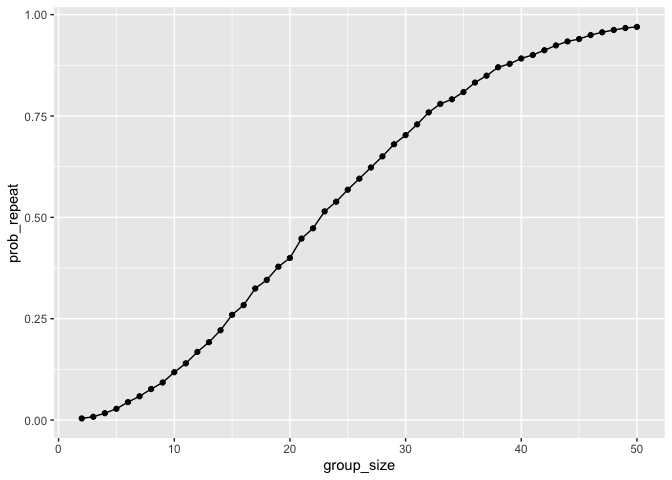
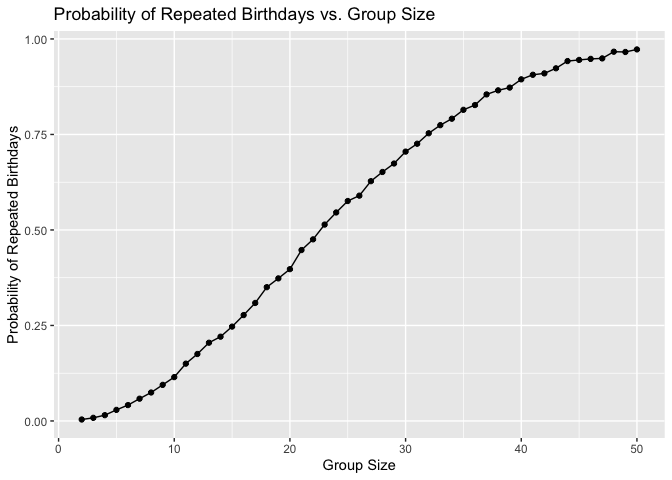
Addint interpretations and labels to my plots

diff --git a/p8105_hw5_ren2121.md b/p8105_hw5_ren2121.md
@@ -59,16 +59,19 @@ Plotting the probability as a function of group size:
 bday_sim_results |> 
   ggplot(aes(x = group_size, y = prob_repeat)) +
   geom_point() +
-  geom_line()
+  geom_line() +
+  labs(
+    x = "Group Size",
+    y = "Probability of Repeated Birthdays",
+    title = "Probability of Repeated Birthdays vs. Group Size"
+  )
 ```
 
 ![](p8105_hw5_ren2121_files/figure-gfm/unnamed-chunk-3-1.png)<!-- -->
-
-``` r
-#LABEL PLOTS!!!!!
-```
-
-interpret here!!!!!!!!!!!
+The plot follows a roughly S-shaped curve, demonstrating that as group
+size increases, the probability of two individuals having the same
+birthday increases at first steeply, and then asymptotically approaches
+a probability of 1.
 
 ## Problem 2
 
@@ -114,6 +117,7 @@ power_results_df =
     results = map(mu_true, sim_ttest)
   ) |> 
   unnest(results)
+##SHOULD I DO 0:6 OR 1:6?? (ARGUMENT FOR 0:6 - BELOW, I CAN PLOT 0-6 MORE EASILY.)
 ```
 
 Plotting the proportion of times the null was rejected:
@@ -134,8 +138,9 @@ power_results_df |>
   )
 ```
 
-![](p8105_hw5_ren2121_files/figure-gfm/unnamed-chunk-5-1.png)<!-- -->
-COMMENT ON PLOT!!!!!
+![](p8105_hw5_ren2121_files/figure-gfm/unnamed-chunk-5-1.png)<!-- --> As
+the true mean increases in value, the proportion of times the null was
+rejected increases steeply, and then asymptotically approaches 1.
 
 Plotting the average estimate of mu versus the true mu:
 
@@ -156,7 +161,11 @@ power_results_df |>
 ```
 
 ![](p8105_hw5_ren2121_files/figure-gfm/unnamed-chunk-6-1.png)<!-- -->
-COMMENT ON PLOT!!!!!
+The average estimate of 𝜇̂ increases proportionally with the true mean,
+and visually, the plot seems to show a perfect correlation. This makes
+sense because we took the average value from 5000 trials, so we would
+expect the average across all simulations to very nearly approximate the
+true mean.
 
 Plotting the average estimate of mu versus the true mu AMONG SAMPLES FOR
 WHICH NULL WAS REJECTED:
@@ -179,9 +188,18 @@ power_results_df |>
 ```
 
 ![](p8105_hw5_ren2121_files/figure-gfm/unnamed-chunk-7-1.png)<!-- -->
-COMMENT ON PLOT!!!!! ANSWER: Is the sample average of 𝜇̂ across tests for
-which the null is rejected approximately equal to the true value of 𝜇 ?
-Why or why not?
+This plot shows that at lower values of the true mean, the average
+estimate of the mean was higher than the true mean among samples for
+which the null was rejected. For true mean values ~ \>3, we see that the
+true mean and the average estimate of the mean closely align.
+
+The sample average of 𝜇̂ across tests for which the null is rejected was
+NOT approximately equal to the true value of 𝜇for lower values, but it
+was approximately equal at higher values. This makes sense because at
+low values, the true mean was closer to the null value of 0, therefore
+only in the trials where the estimate of the mean was higher than the
+true value was the computed test statistic large enough and the
+associated p-value small enough to reject the null hypothesis.
 
 ## Problem 3
 
